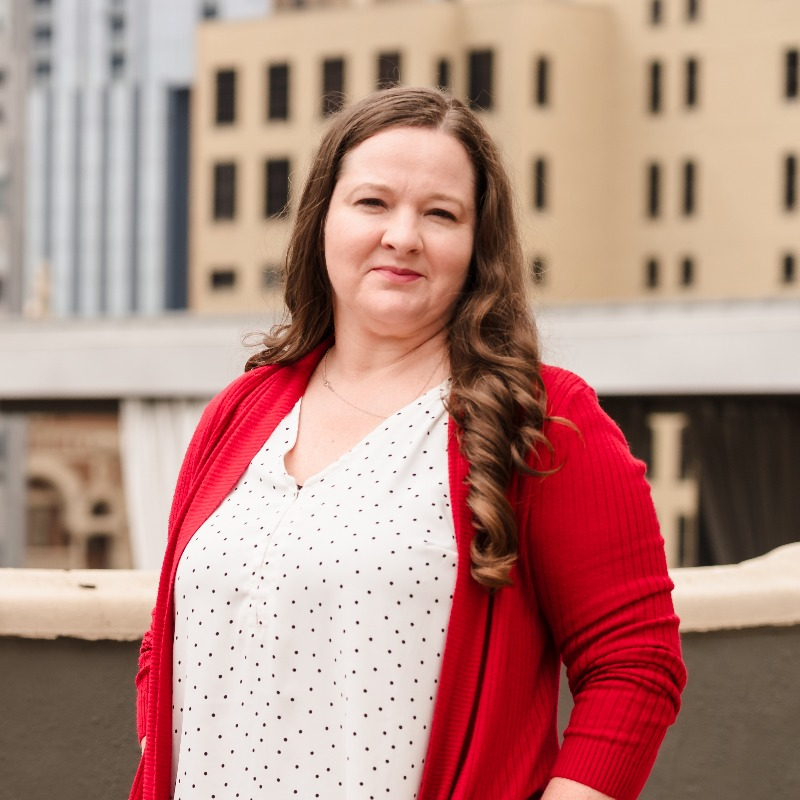
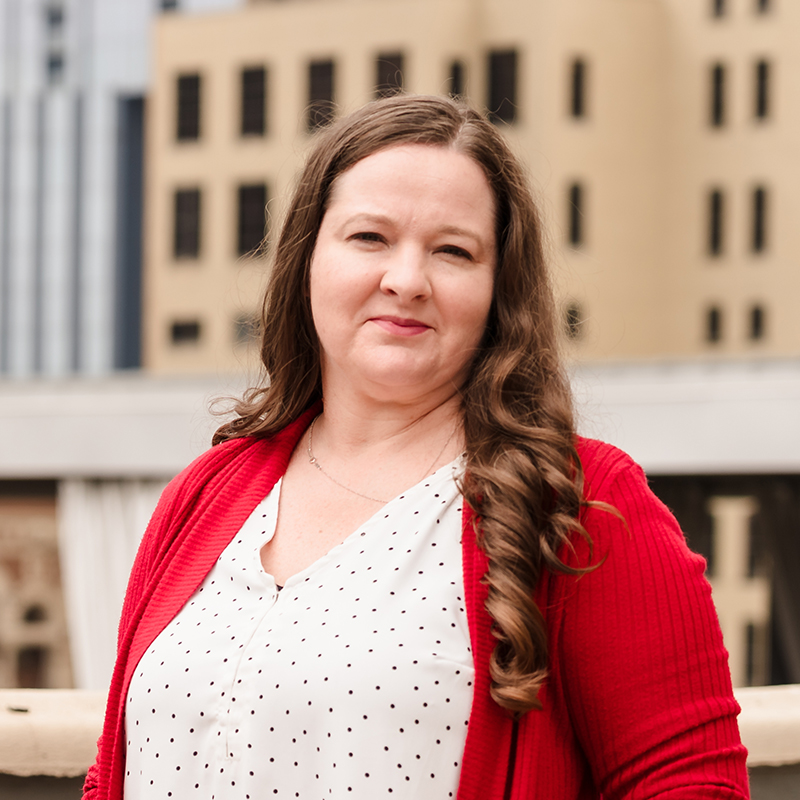
Add drag-to-pan org chart, fix photos, set up Cloudflare deploy
- Port click-and-drag panning (horizontal + vertical) into OrgChart
- Replace two downsized photos with full-res originals; clean filenames
- Remove stray copy/screenshot assets; stop tracking build output (dist)
- Add wrangler.jsonc, .gitignore, and deploy script for Workers

diff --git a/src/OrgChart.tsx b/src/OrgChart.tsx
@@ -132,6 +132,10 @@ interface OrgChartProps {
 export default function OrgChart({ query, onSelect, expandTrigger, collapseTrigger }: OrgChartProps) {
   const isFiltered = !!query;
   const wrapRef = useRef<HTMLDivElement>(null);
+  const [dragging, setDragging] = useState(false);
+
+  // Click-and-drag panning (mouse only; touch keeps native scrolling).
+  const drag = useRef({ active: false, startX: 0, startY: 0, left: 0, top: 0, vWindow: false, moved: false });
 
   useEffect(() => {
     const el = wrapRef.current;
@@ -139,12 +143,72 @@ export default function OrgChart({ query, onSelect, expandTrigger, collapseTrigg
     el.scrollLeft = (el.scrollWidth - el.clientWidth) / 2;
   }, []);
 
+  const onMouseDown = (e: React.MouseEvent) => {
+    if (e.button !== 0) return;
+    const el = wrapRef.current;
+    if (!el) return;
+    // The wrap scrolls horizontally; vertical overflow usually scrolls the
+    // window. Pan whichever is actually the vertical scroller.
+    const vWindow = el.scrollHeight <= el.clientHeight;
+    drag.current = {
+      active: true,
+      startX: e.clientX,
+      startY: e.clientY,
+      left: el.scrollLeft,
+      top: vWindow ? window.scrollY : el.scrollTop,
+      vWindow,
+      moved: false,
+    };
+    setDragging(true);
+  };
+
+  const onMouseMove = (e: React.MouseEvent) => {
+    const d = drag.current;
+    const el = wrapRef.current;
+    if (!d.active || !el) return;
+    const dx = e.clientX - d.startX;
+    const dy = e.clientY - d.startY;
+    if (!d.moved && Math.abs(dx) + Math.abs(dy) > 5) d.moved = true;
+    if (d.moved) {
+      e.preventDefault();
+      el.scrollLeft = d.left - dx;
+      if (d.vWindow) {
+        window.scrollTo(window.scrollX, d.top - dy);
+      } else {
+        el.scrollTop = d.top - dy;
+      }
+    }
+  };
+
+  const endDrag = () => {
+    if (!drag.current.active) return;
+    drag.current.active = false;
+    setDragging(false);
+  };
+
+  // Swallow the click that follows a drag so it doesn't open a person card.
+  const onClickCapture = (e: React.MouseEvent) => {
+    if (drag.current.moved) {
+      e.preventDefault();
+      e.stopPropagation();
+      drag.current.moved = false;
+    }
+  };
+
   function matchesPerson(p: Person): boolean {
     return !query || (p.name + ' ' + p.title + ' ' + (p.cred || '')).toLowerCase().includes(query);
   }
 
   return (
-    <div className="chart-wrap" ref={wrapRef}>
+    <div
+      className={`chart-wrap${dragging ? ' dragging' : ''}`}
+      ref={wrapRef}
+      onMouseDown={onMouseDown}
+      onMouseMove={onMouseMove}
+      onMouseUp={endDrag}
+      onMouseLeave={endDrag}
+      onClickCapture={onClickCapture}
+    >
       <div className="chart-scroll-inner">
         <ul className="org-tree">
           {roots.map(r => (

diff --git a/src/index.css b/src/index.css
@@ -248,6 +248,16 @@ button { font-family: inherit; cursor: pointer; border: none; background: none; 
   overflow: auto;
   padding: 36px 24px 80px;
   min-height: 60vh;
+  cursor: grab;
+}
+
+.chart-wrap.dragging {
+  cursor: grabbing;
+  user-select: none;
+}
+
+.chart-wrap.dragging .org-card {
+  cursor: grabbing;
 }
 
 .chart-scroll-inner {

diff --git a/src/data.ts b/src/data.ts
@@ -116,7 +116,7 @@ export const PEOPLE: Person[] = [
     photo: '/Michael_Wohl_-_Square.jpg', bio: BIO('michael-wohl'), color: '#f15825' },
   { id: 'jennifer-umana', name: 'Jennifer Umana', cred: '', title: 'Assistant Property Manager', dept: 'management', parent: 'michelle-ackermann',
     email: '[email redacted]', phone: '512-505-0832', mobile: '580-480-5008', linkedin: LI('jennifer-u-1133862a'),
-    photo: '/Jennifer_Umana_-_Square%20copy.jpg', bio: BIO('jennifer-umana'), color: '#f15825' },
+    photo: '/Jennifer_Umana_-_Square.jpg', bio: BIO('jennifer-umana'), color: '#f15825' },
 
   { id: 'graham-shearer', name: 'Graham Shearer', cred: '', title: 'Property Assistant', dept: 'management', parent: 'angela-odom-brown',
     email: '[email redacted]', phone: '512-505-0495', mobile: '512-289-5029', linkedin: LI('graham-shearer-9a6a68290'),
@@ -124,7 +124,7 @@ export const PEOPLE: Person[] = [
 
   { id: 'taylor-fisher', name: 'Taylor Fisher', cred: '', title: 'Assistant Property Manager', dept: 'management', parent: 'madeline-powers',
     email: '[email redacted]', phone: '512-505-0836', mobile: '512-803-4214', linkedin: LI('taylorcfisher'),
-    photo: '/Taylor_Fisher_-_Square%20copy.jpg', bio: BIO('taylor-fisher'), color: '#879792' },
+    photo: '/Taylor_Fisher_-_Square.jpg', bio: BIO('taylor-fisher'), color: '#879792' },
   { id: 'luis-elizondo', name: 'Luis Elizondo', cred: '', title: 'Property Assistant', dept: 'management', parent: 'madeline-powers',
     email: '[email redacted]', phone: '512-505-0498', mobile: '956-346-6209', linkedin: LI('luis-marcelo-elizondo'),
     photo: '/Luis_Elizondo_-_Square.jpg', bio: BIO('luis-elizondo'), color: '#879792' },